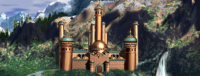
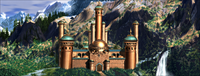
Show the lobby's thumbs up, and redraw the artwork
The rating the overlay reads from hotameta arrives alongside the thumbs up
count the lobby shows beside it, and that was being thrown away. It now takes
the place of the gold trade on the bar: the trade is still gathered from the
lobby chat and from the API and can still be typed in by hand, it just no
longer has a slot of its own.

Which half of the fetched data belongs to which player is now decided by name
rather than by the isLocal flag the game reports. Both players are local in a
hot seat match, so that flag handed the same rating, and the same thumbs up,
to both sides. Names were already what the requests were keyed on.

The score on the flag is left empty unless it is typed in. It counts wins
against one opponent across a sitting, which says nothing when every match is
against somebody new, and a nil there reads as a real score rather than as no
data.

The artwork is redrawn: every flag, every town, and the icons on the bar. The
files in images/main are all snake_case now, flags included, which cost one
toLower() where the colour is turned into a file name. images/heroes and
images/towns keep the game's own spelling, since those names come from the
game data and changing them would mean rewriting the maps they are built from.

diff --git a/src/mainwindow.cpp b/src/mainwindow.cpp
@@ -287,6 +287,11 @@ void MainWindow::getUpdate(const displayInfoStruct &automaticData)
 
     // The client itself ignores a pair it has already fetched, so this is
     // cheap even though this slot runs ten times a second.
+    //
+    // In a hot seat match both players are local and this picks one of them
+    // arbitrarily. That is harmless: it only decides which name the client
+    // files as "local", and sendUpdate reads the answers back by name, so the
+    // two always agree on who is who.
     const size_t localIndex = this->autoData.player[Right].isLocalPlayer ? Right : Left;
     const size_t remoteIndex = (localIndex == Left) ? Right : Left;
     this->hotaMeta->setPlayers(this->autoData.player[localIndex].name,
@@ -396,12 +401,20 @@ void MainWindow::sendUpdate()
     // for the opponent without having to hover them in the game lobby first.
     // An empty value means the request has not answered, so keep the fallback.
     const hotaMetaStruct &meta = this->hotaMeta->data();
+
+    // Which half of the fetched data belongs to which side is decided by the
+    // player's name, not by the isLocal flag the game reports. In a hot seat
+    // match both players are local, so that flag would hand the same numbers
+    // to both sides.
+    const bool leftIsLocal = this->hotaMeta->belongsToLocal(leftInput->name);
+    const bool rightIsLocal = this->hotaMeta->belongsToLocal(rightInput->name);
+
     QString leftRating = leftInput->rating;
     QString rightRating = rightInput->rating;
     const QString &leftMetaRating =
-            leftInput->isLocalPlayer ? meta.localRating : meta.opponentRating;
+            leftIsLocal ? meta.localRating : meta.opponentRating;
     const QString &rightMetaRating =
-            rightInput->isLocalPlayer ? meta.localRating : meta.opponentRating;
+            rightIsLocal ? meta.localRating : meta.opponentRating;
     if(leftMetaRating.isEmpty() == false)
     {
         leftRating = leftMetaRating;
@@ -411,44 +424,48 @@ void MainWindow::sendUpdate()
         rightRating = rightMetaRating;
     }
 
-    // Same for the gold trade. Reading it from the lobby chat only worked if
-    // the overlay happened to be running when the trade was announced, the
-    // API reports it for the running match either way.
-    QString leftMoney = leftInput->money;
-    QString rightMoney = rightInput->money;
-    const QString &leftMetaTrade =
-            leftInput->isLocalPlayer ? meta.localTrade : meta.opponentTrade;
-    const QString &rightMetaTrade =
-            rightInput->isLocalPlayer ? meta.localTrade : meta.opponentTrade;
-    if(leftMetaTrade.isEmpty() == false)
-    {
-        leftMoney = leftMetaTrade;
-    }
-    if(rightMetaTrade.isEmpty() == false)
-    {
-        rightMoney = rightMetaTrade;
-    }
+    // That slot now carries the thumbs up the lobby shows beside a player
+    // rather than the agreed gold trade. The trade is still gathered, from
+    // the lobby chat and from the API, and can still be typed in by hand, but
+    // it is the likes that go on the bar.
+    //
+    // Zero rather than blank while the request is still out or the name is not
+    // one the site knows: the slot has always carried a number, and an empty
+    // box next to the icon reads as something being broken.
+    const QString NO_LIKES("0");
+    const QString &leftLikesValue = leftIsLocal ? meta.localLikes : meta.opponentLikes;
+    const QString &rightLikesValue = rightIsLocal ? meta.localLikes : meta.opponentLikes;
+    const QString leftLikes = leftLikesValue.isEmpty() ? NO_LIKES : leftLikesValue;
+    const QString rightLikes = rightLikesValue.isEmpty() ? NO_LIKES : rightLikesValue;
 
     // Head to head is stored on the local player, whose point of view it is,
     // and so is today's record.
-    const size_t localSide = dataToSend[Right].isLocalPlayer ? Right : Left;
+    const size_t localSide = rightIsLocal ? Right : Left;
     dataToSend[localSide].h2hWins = meta.h2hWins;
     dataToSend[localSide].h2hLosses = meta.h2hLosses;
     dataToSend[localSide].todayWins = meta.todayWins;
     dataToSend[localSide].todayLosses = meta.todayLosses;
     dataToSend[localSide].todayRatingChange = meta.todayRatingChange;
 
+    // The score is the one field with no automatic value behind it. It counts
+    // wins against the same opponent across a sitting, which only means
+    // something in a run of games against one player, and the counter cannot
+    // know whether it was running for the earlier ones. Left blank unless it
+    // is typed in, so a flag showing nothing reads as "no score here" rather
+    // than as a genuine nil.
+    const QString noAutomaticScore;
+
     dataToSend[Left].name =    setText(this->ui->redNameEdit,    leftInput->name);
     dataToSend[Left].rating =  setText(this->ui->redRatingEdit,  leftRating);
-    dataToSend[Left].money =   setText(this->ui->redTradeEdit,   leftMoney);
-    dataToSend[Left].wins =    setText(this->ui->redWinEdit,     leftInput->wins);
+    dataToSend[Left].money =   setText(this->ui->redTradeEdit,   leftLikes);
+    dataToSend[Left].wins =    setText(this->ui->redWinEdit,     noAutomaticScore);
     dataToSend[Left].town =    setText(this->ui->redTownBox,     leftInput->town);
     dataToSend[Left].hero =    setText(this->ui->redHeroBox,     leftInput->hero);
 
     dataToSend[Right].name =   setText(this->ui->blueNameEdit,   rightInput->name);
     dataToSend[Right].rating = setText(this->ui->blueRatingEdit, rightRating);
-    dataToSend[Right].money =  setText(this->ui->blueTradeEdit,  rightMoney);
-    dataToSend[Right].wins =   setText(this->ui->blueWinEdit,    rightInput->wins);
+    dataToSend[Right].money =  setText(this->ui->blueTradeEdit,  rightLikes);
+    dataToSend[Right].wins =   setText(this->ui->blueWinEdit,    noAutomaticScore);
     dataToSend[Right].town =   setText(this->ui->blueTownBox,    rightInput->town);
     dataToSend[Right].hero =   setText(this->ui->blueHeroBox,    rightInput->hero);
 

diff --git a/src/maindisplay.cpp b/src/maindisplay.cpp
@@ -141,10 +141,10 @@ void MainDisplay::updateTurnOrderIcons(const std::array<displayPlayerInfoStruct,
 // The same four icons the game puts above a hero's primary skills, so the row
 // reads without a legend. They are full size art, scaled to the line height
 // here rather than on disk so they stay sharp if the line ever grows.
-static const QString ATTACK_SKILL_ICON = ":/images/main/AttackSkill.png";
-static const QString DEFENCE_SKILL_ICON = ":/images/main/DefenceSkill.png";
-static const QString POWER_SKILL_ICON = ":/images/main/PowerSkill.png";
-static const QString KNOWLEDGE_SKILL_ICON = ":/images/main/KnowledgeSkill.png";
+static const QString ATTACK_SKILL_ICON = ":/images/main/attack_skill_icon.png";
+static const QString DEFENCE_SKILL_ICON = ":/images/main/defence_skill_icon.png";
+static const QString POWER_SKILL_ICON = ":/images/main/power_skill_icon.png";
+static const QString KNOWLEDGE_SKILL_ICON = ":/images/main/knowledge_skill_icon.png";
 
 // Big enough that the four icons stay distinct at stream scale. The line they
 // sit in is a fixed 22px, so anything up to about that height costs no room:
@@ -324,10 +324,13 @@ void MainDisplay::update( const std::array<displayPlayerInfoStruct, 2> &displayD
     this->ui->blueHero->setStyleSheet("QFrame{border-image:  url(:/images/heroes/Hero_" +
                                       displayData[Right].hero + ".png) 0 0 0 0 stretch stretch;}");
 
+    // The colour arrives capitalised, as the game names it, while the files in
+    // main are all lower case. Lowering here keeps that one folder to a single
+    // naming rule instead of carving out an exception for the flags.
     this->ui->redFlag->setStyleSheet("border-image:  url(:/images/main/" +
-                                     displayData[Left].playerColor + "_flag.png) 0 0 0 0 stretch stretch;  color:#F9E687");
+                                     displayData[Left].playerColor.toLower() + "_flag.png) 0 0 0 0 stretch stretch;  color:#F9E687");
     this->ui->blueFlag->setStyleSheet("border-image:  url(:/images/main/" +
-                                      displayData[Right].playerColor + "_flag.png) 0 0 0 0 stretch stretch;  color:#F9E687");
+                                      displayData[Right].playerColor.toLower() + "_flag.png) 0 0 0 0 stretch stretch;  color:#F9E687");
 
 
     this->ui->redMoney->setText(displayData[Left].money);

diff --git a/src/hotametaclient.cpp b/src/hotametaclient.cpp
@@ -44,6 +44,13 @@ void HotaMetaClient::clear()
     this->opponent.clear();
 }
 
+bool HotaMetaClient::belongsToLocal(const QString &name) const
+{
+    // The lobby treats names case insensitively and the API answers in lower
+    // case, so neither side of this can be trusted to match exactly.
+    return name.compare(this->local, Qt::CaseInsensitive) == 0;
+}
+
 void HotaMetaClient::setPlayers(const QString &localName, const QString &opponentName)
 {
     if(localName.isEmpty() || opponentName.isEmpty())
@@ -140,13 +147,20 @@ void HotaMetaClient::fetchRating(const QString &name, bool isLocal)
             return;
         }
         const QString rating = QString::number(object.value("rating").toInt());
+        // The same reply carries the thumbs up count the lobby shows beside
+        // the rating, so it is taken here rather than asked for separately.
+        const QString likes = object.contains("likes")
+                ? QString::number(object.value("likes").toInt())
+                : QString();
         if(isLocal)
         {
             this->fetched.localRating = rating;
+            this->fetched.localLikes = likes;
         }
         else
         {
             this->fetched.opponentRating = rating;
+            this->fetched.opponentLikes = likes;
         }
     });
 }

diff --git a/src/hotametaclient.h b/src/hotametaclient.h
@@ -15,6 +15,10 @@ struct hotaMetaStruct
 {
     QString localRating;
     QString opponentRating;
+    /** Thumbs up the lobby shows next to a player. Comes back on the same
+     *  request as the rating, so it costs nothing extra to have. */
+    QString localLikes;
+    QString opponentLikes;
     QString todayWins;
     QString todayLosses;
     QString todayRatingChange;
@@ -65,6 +69,18 @@ public:
     void clear();
 
     const hotaMetaStruct & data() const;
+
+    /**
+     * @brief belongsToLocal Whether a player name is the one this client
+     * fetched as the local player.
+     *
+     * Needed because the isLocal flag the game reports cannot separate the two
+     * sides of a hot seat match, where both players are local. Names can, and
+     * they are what the requests were keyed on in the first place.
+     * @param name The player name to test.
+     * @return true if it is the local player of the current pair.
+     */
+    bool belongsToLocal(const QString &name) const;
 
 signals:
     /**
